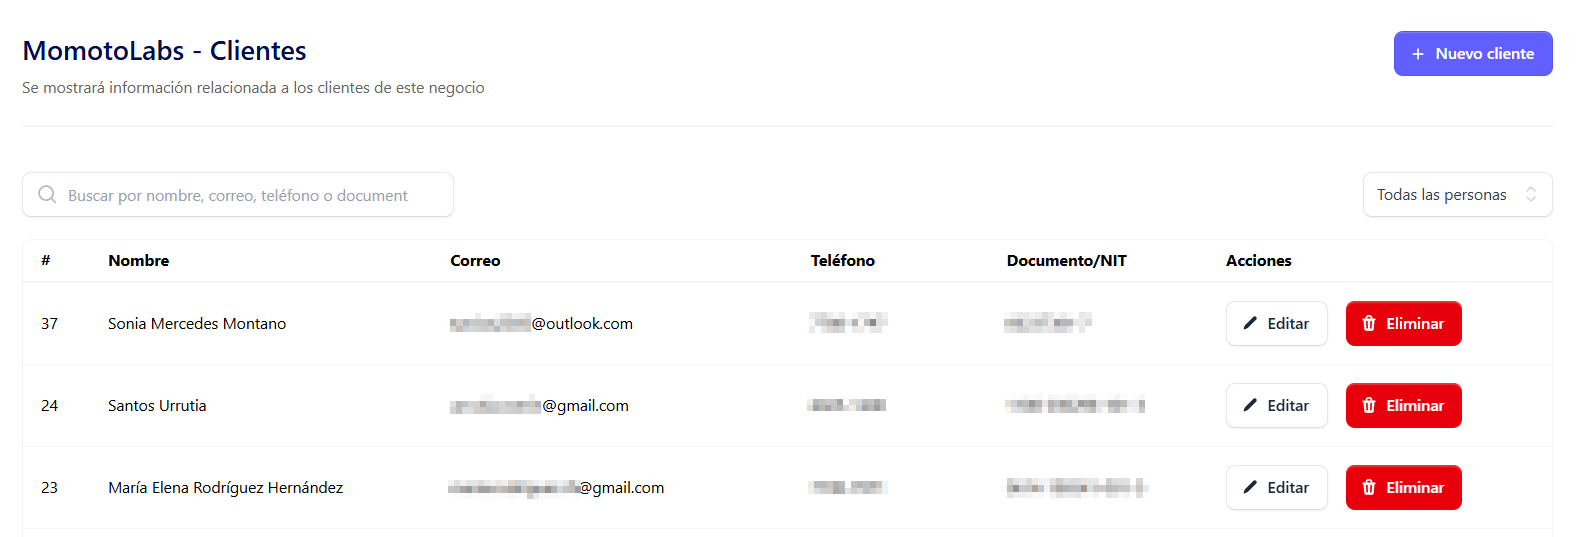
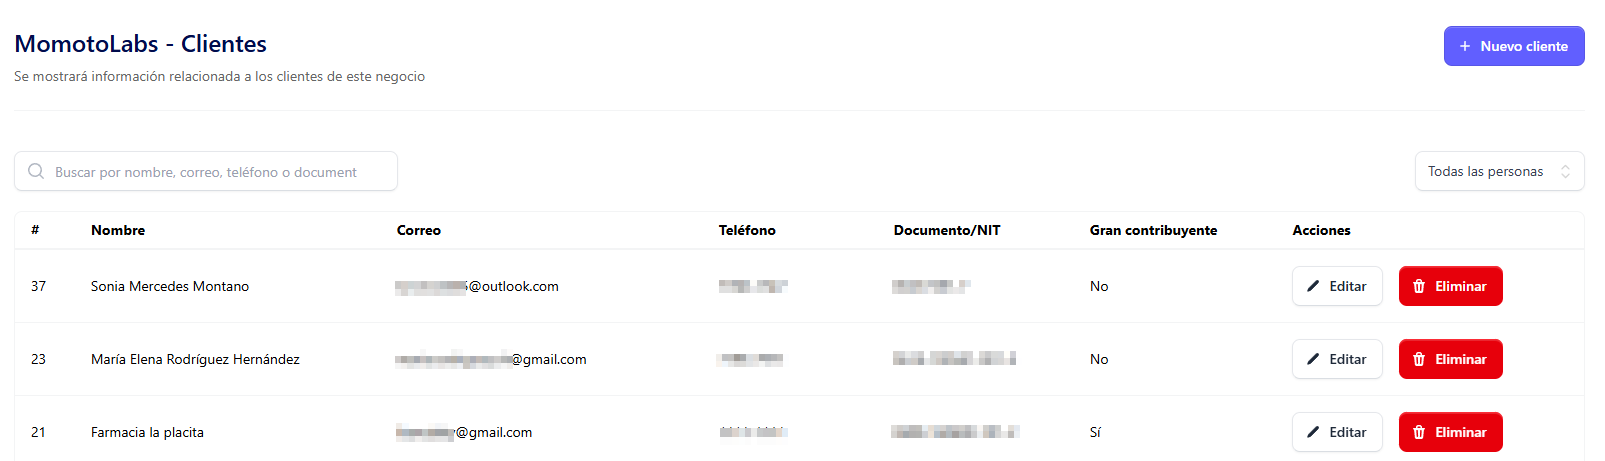
cambio de pantallas admin en relacion al cliente

diff --git a/src/content/docs/started/crear-clientes.md b/src/content/docs/started/crear-clientes.md
@@ -28,12 +28,19 @@ Para poder crear un cliente de indole **Natural** se deben completar los siguien
 
 ![Página de registro](../../../assets/form-cliente.png)
 
-**Datos Generales**
+### Datos Generales ###
 
-¿El cliente es extranjero?
+**¿El cliente es extranjero?**
+
 Para este tipo de cliente (Persona Natural), el switch debe permanecer desactivado.
 
 ![Página de registro](../../../assets/swicth.png)
+
+**¿El cliente es gran contribuyente?**
+
+Contribuyente basado en un regimen especial del código tributario, obligado a generar retenciones del 1% de IVA. Si es gran contribuyente el switch debe permanecer activado
+
+![Página de registro](../../../assets/switch-gcontribuyente.png)
 
 - **Tipo de cliente**
 El sistema muestra automáticamente "Persona Natural"; debe dejarlo así como aparece.
@@ -101,12 +108,19 @@ Para poder crear un cliente de indole **Natural Contribuyente** se deben complet
 
 ![Página de registro](../../../assets/ncontribuyente.png)
 
-**Datos Generales**
+### Datos Generales ###
 
 ¿El cliente es extranjero?
 Para este tipo de cliente (Persona Natural), el switch debe permanecer desactivado.
 
 ![Página de registro](../../../assets/swicth.png)
+
+**¿El cliente es gran contribuyente?**
+
+Contribuyente basado en un regimen especial del código tributario, obligado a generar retenciones del 1% de IVA. Si es gran contribuyente el switch debe permanecer activado
+
+![Página de registro](../../../assets/switch-gcontribuyente.png)
+
 
 - **Tipo de cliente**
 El sistema muestra automáticamente "Persona Natural"; debe dejarlo así como aparece.
@@ -186,7 +200,14 @@ Activar el switch
 
 Al activarlo, se mostrarán campos específicos para clientes extranjeros.
 
-Datos Generales
+**¿El cliente es gran contribuyente?**
+
+Contribuyente basado en un regimen especial del código tributario, obligado a generar retenciones del 1% de IVA. Si es gran contribuyente el switch debe permanecer activado
+
+![Página de registro](../../../assets/switch-gcontribuyente.png)
+
+
+### Datos Generales ###
 
 - **Tipo de cliente**
 
@@ -257,7 +278,14 @@ Para poder crear un cliente de indole **Juridico** se deben completar los siguie
 
 Para este tipo de cliente, el switch debe permanecer desactivado.
 
-Datos Generales
+**¿El cliente es gran contribuyente?**
+
+Contribuyente basado en un regimen especial del código tributario, obligado a generar retenciones del 1% de IVA. Si es gran contribuyente el switch debe permanecer activado
+
+![Página de registro](../../../assets/switch-gcontribuyente.png)
+
+
+### Datos Generales ###
 
 - **Tipo de cliente**
 
@@ -329,8 +357,14 @@ Al activarlo se mostraran campos especificos para personas extranjeras
 
 ![Página de registro](../../../assets/extranjeroswitch.png)
 
+**¿El cliente es gran contribuyente?**
 
-Datos generales:
+Contribuyente basado en un regimen especial del código tributario, obligado a generar retenciones del 1% de IVA. Si es gran contribuyente el switch debe permanecer activado
+
+![Página de registro](../../../assets/switch-gcontribuyente.png)
+
+
+### Datos generales: ###
 
 **Tipo de cliente***
 

diff --git a/src/content/docs/started/editar-cliente.md b/src/content/docs/started/editar-cliente.md
@@ -34,6 +34,8 @@ Al cliente **natural** se le pueden editar los siguientes campos:
 
 - ¿El cliente es contribuyente ? si no es puede pasar a serlo; activando el switch (Se habilitaran campos NIT,NRC y actividad economica)
 
+- El cliente puede ser gran contribuyente si no lo es (debe activar el switch)
+
 - Tipo de documento (DUI, NIT, Carnet de residente, Pasaporte, Otro)
 
 -  Número de documento (Según el documento selecionado)
@@ -71,6 +73,7 @@ Al cliente **natural contribuyente** se le pueden editar los siguientes campos:
 
 - ¿El cliente es contribuyente ? si lo es puede dejar de serlo; desactivando el switch (Se ocultaran campos NIT,NRC y actividad economica)
 
+- El cliente puede ser gran contribuyente si no lo es (debe activar el switch)
 
 - Tipo de documento (NIT por defecto unicamente)
 
@@ -115,6 +118,8 @@ Al cliente **natural extranjero** se le pueden editar los siguientes campos:
 
 - ¿El cliente es extranjero ? si lo es puede dejar de serlo; desactivando el switch (Se ocultaran campos Nombre comercial,actividad economica, país)
 
+- El cliente puede ser gran contribuyente si no lo es (debe activar el switch)
+
 - Nombre comercial
 
 - Tipo de documento (Pasaporte, Carnet de residente, Otro)
@@ -153,6 +158,8 @@ Al cliente **Jurídico** se le pueden editar los siguientes campos:
 
 
 - Tipo de cliente (El cliente jurídico puede pasar a ser natural)
+
+- El cliente puede ser gran contribuyente si no lo es (debe activar el switch)
 
 - Nombre del cliente (Si hubo algun error de ortografia)
 
@@ -195,6 +202,8 @@ Si no esta seguro de aplicar cambios dar clic en el botón **Regresar**
 Al cliente **Jurídico** se le pueden editar los siguientes campos:
 
 - ¿El cliente es extranjero? activar el switch (Desaparecen los campos de NIT, NRC)
+
+- El cliente puede ser gran contribuyente si no lo es (debe activar el switch)
 
 - Tipo de cliente (El cliente jurídico puede pasar a ser natural)
 
